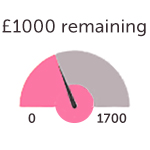
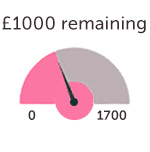
Re-design of Dashboard

diff --git a/app/assets/stylesheets/homes.css.scss b/app/assets/stylesheets/homes.css.scss
@@ -20,15 +20,12 @@ body.homes-index {
     h3 {color:$very-dark;}
     /*background: url(image_path('bg-multi.jpg')) repeat;*/
     
-    .padded {
-      padding:15px; 
-      background:#fff; 
+    .padded, .panel {
       overflow:hidden; 
       margin-top:10px; 
       margin-bottom:15px;
-      @include border-radius(3px); 
       .head {
-        font-size: 18px;
+        font-size: 17px;
         color:$purple;
       }
       .icon-font {margin-right:5px;}
@@ -50,9 +47,10 @@ body.homes-index {
 }
 
 .wrapper {
-  background:#dad9d9;
-  .row {margin-top:20px;}
+  background:#e2dfe0;
+  .row {margin-top:15px;}
 }
+.nav-tabs {margin-top:15px;}
 
 .event_details {
   float:left;
@@ -81,11 +79,11 @@ body.homes-index {
 }
 .total {
   text-align: center;
-  font-size: 70px;
+  font-size: 73px;
   font-weight: 700;
   color:$purple;
   background-color: #e0d3d7;
-  padding:2px;
+  padding:0 0 1px 0;
 }
 .budgets {text-align: center;}
 .bg-info,  .bg-warning {

diff --git a/app/assets/stylesheets/bootstrap.css b/app/assets/stylesheets/bootstrap.css
@@ -3483,7 +3483,7 @@ select[multiple].input-group-sm > .input-group-btn > .btn {
   max-width: none;
 }
 .nav-tabs {
-  border-bottom: 1px solid #ddd;
+
 }
 .nav-tabs > li {
   float: left;
@@ -3503,7 +3503,7 @@ select[multiple].input-group-sm > .input-group-btn > .btn {
 .nav-tabs > li.active > a:focus {
   color: #555;
   cursor: default;
-  background-color: #fff;
+  background-color: #e2dfe0;
   border: 1px solid #ddd;
   border-bottom-color: transparent;
 }
@@ -4760,6 +4760,7 @@ a.list-group-item-danger.active:focus {
   border-bottom: 1px solid transparent;
   border-top-left-radius: 3px;
   border-top-right-radius: 3px;
+  margin-bottom: 0;
 }
 .panel-heading > .dropdown .dropdown-toggle {
   color: inherit;
@@ -5028,7 +5029,7 @@ a.list-group-item-danger.active:focus {
 .well {
   min-height: 20px;
   padding: 19px;
-  margin-bottom: 20px;
+  margin-bottom: 10px;
   background-color: #f5f5f5;
   border: 1px solid #e3e3e3;
   border-radius: 4px;

diff --git a/app/assets/stylesheets/notes.css.scss b/app/assets/stylesheets/notes.css.scss
@@ -25,13 +25,7 @@ body.notes-index, body.notes-new, body.notes-edit {
     padding:5px;
   }
   .padded {
-    background:#fff;
-    padding:1em 1.5em;
     border: 2px solid #d1b8c0;
-    word-wrap:break-word;
-        -webkit-border-radius: 3px;
-    -moz-border-radius: 3px;
-    border-radius: 3px;
     cursor:pointer;
   }
   .date {color:$purple; font-weight: 500;}
@@ -48,7 +42,7 @@ body.notes-index, body.notes-new, body.notes-edit {
   .created {font-size: 14px;}
 }
 
-.notes.first { 
+.notes.first .padded { 
 	border:3px solid $purple; 
 	-webkit-border-radius: 3px;
     -moz-border-radius: 3px;

diff --git a/app/assets/stylesheets/scaffolds.css.scss b/app/assets/stylesheets/scaffolds.css.scss
@@ -141,7 +141,12 @@ a.sub-menu, .sub-menu a {
 }
 .sub-menu .left {float:left;}
 
-/*Submit buttons*/
+.padded {
+  padding:15px;
+  word-wrap:break-word;
+}
+
+/*Submit buttons
 input[type="submit"], .login_btn {
   background-color: $pink;
   border:none;
@@ -154,7 +159,7 @@ input[type="submit"], .login_btn {
   -moz-border-radius: 3px;
   border-radius: 3px;
   margin:10px 0;
-}
+}*/
 .btn.login {
   float:right;
   margin-top:7px;

diff --git a/app/assets/stylesheets/task_lists.css.scss b/app/assets/stylesheets/task_lists.css.scss
@@ -39,12 +39,8 @@ body.task_lists-new, body.attendees-new, body.task_lists-edit, body.attendees-ed
     padding:10px;
   }
   .padded {
-    /*background:#fff;*/
-    padding:1em 1.5em;
+
     border: 2px solid #d1b8c0;
-   /* -webkit-border-radius: 3px;
-    -moz-border-radius: 3px;
-    border-radius: 3px;*/
     word-wrap:break-word;
   }
   .padded.activity { 
